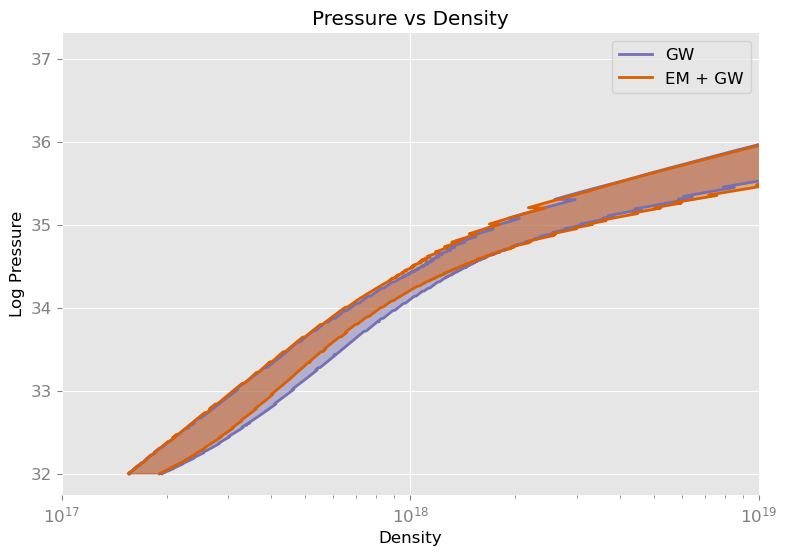
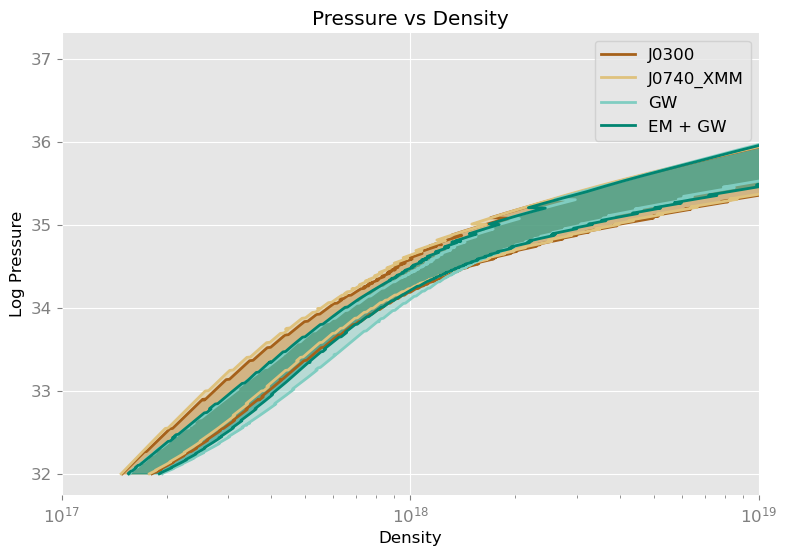
Compare new hierarchical GW & EM+GW confidence plot attempt2!

Changed region(s): [[0.1525, 0.2144, 0.9759, 0.8577], [0.7624, 0.0613, 0.9454, 0.245], [0.7624, 0.1838, 0.7929, 0.245]]

diff --git a/joint_inference/development/confidence_interval.py b/joint_inference/development/confidence_interval.py
@@ -6,9 +6,9 @@ import corner
 def plot_intervals(outputfile):
     # Plots differently sourced confidence intervals on top of each other.
 
-    Files = ["run_data/spectral_p_vs_rho_thinned_GW_confidence.txt", "run_data/spectral_p_vs_rho_W100_S10000_GW_J0300_J0740_XMM_confidence.txt"]
-    labels = ["GW", "EM + GW"]
-    colors = ["#7570b3", "#d95f02"]
+    Files = ["run_data/3rd_r_c_switch/spectral_p_vs_rho_EM_switch_confidence.txt", "run_data/spectral_p_vs_rho_W100_S10000_J0740_XMM_confidence.txt", "run_data/spectral_p_vs_rho_thinned_GW_confidence.txt", "run_data/spectral_p_vs_rho_W100_S10000_GW_J0300_J0740_XMM_hierarchical_confidence.txt"]
+    labels = ["J0300", "J0740_XMM", "GW", "EM + GW"]
+    colors = ["#a6611a", "#dfc27d", "#80cdc1", "#018571"]
 
     pl.clf()
     pl.figure(figsize=(9,6))
